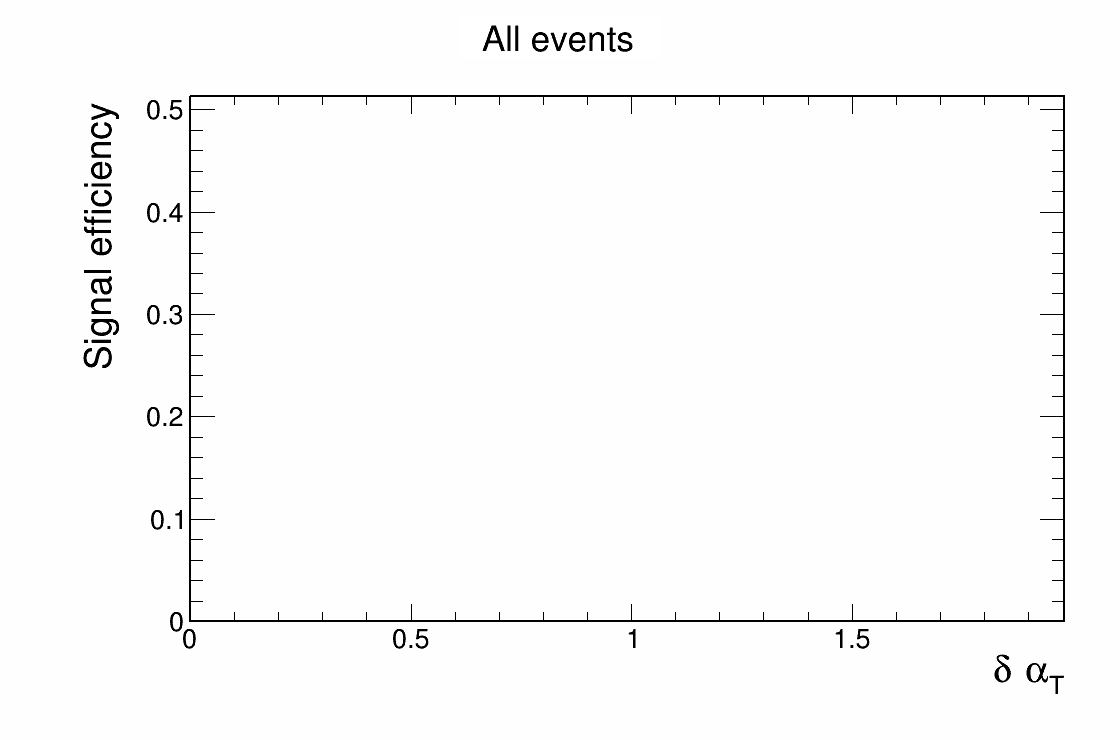
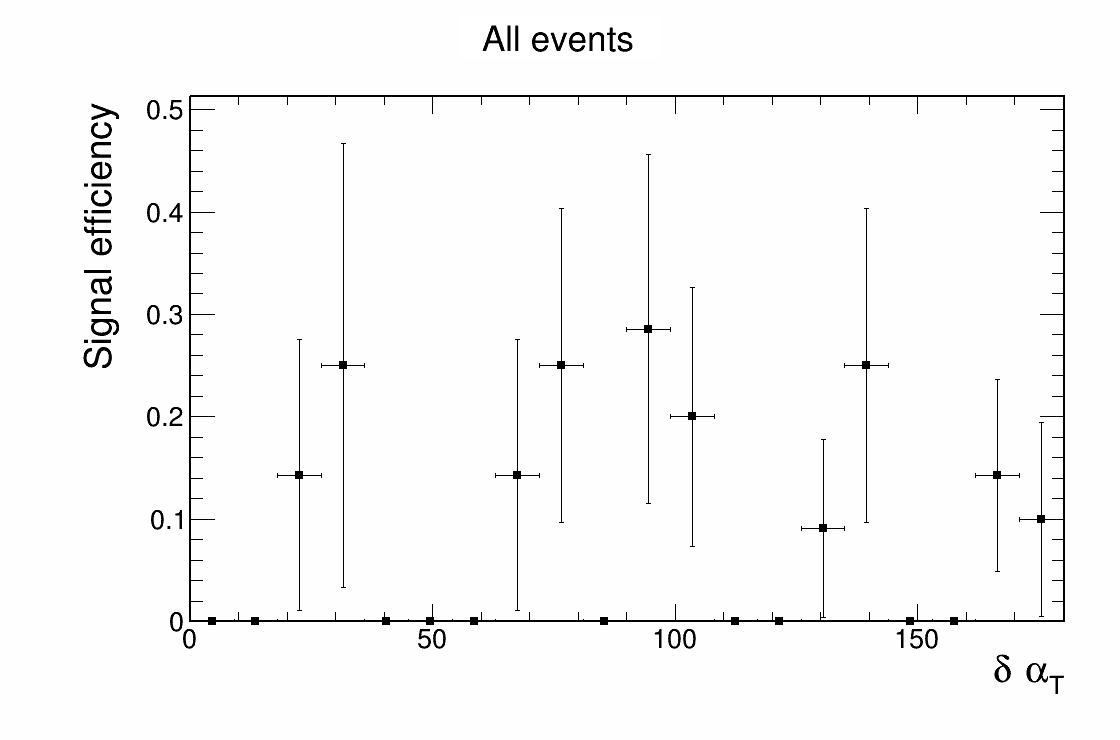
Fix x axis range for efficiency plots

diff --git a/CAFAnaAnalysis/Scripts/SelectionEfficiency.C b/CAFAnaAnalysis/Scripts/SelectionEfficiency.C
@@ -150,7 +150,7 @@ void SelectionEfficiency() {
         Eff->SetTitle("All events");
         Eff->Draw("AP");
         gPad->Update();
-        Eff->GetPaintedGraph()->GetXaxis()->SetRangeUser(0,1);
+        Eff->GetPaintedGraph()->GetXaxis()->SetRangeUser(VarBins.at(i).Min(),VarBins.at(i).Max());
 
         // Save as png
         PlotCanvas->SaveAs(dir+"/Figs/CAFAna/Efficiency/"+PlotNames[i]+".png");
